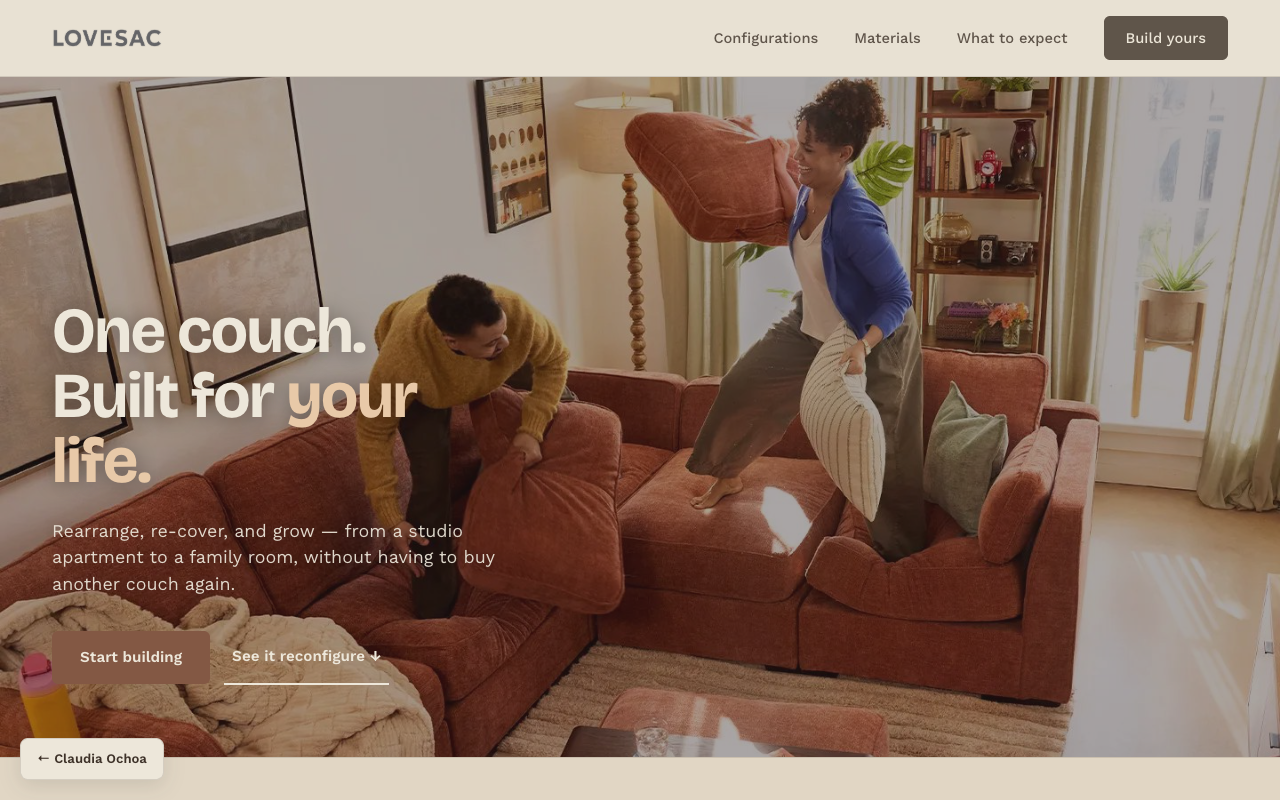
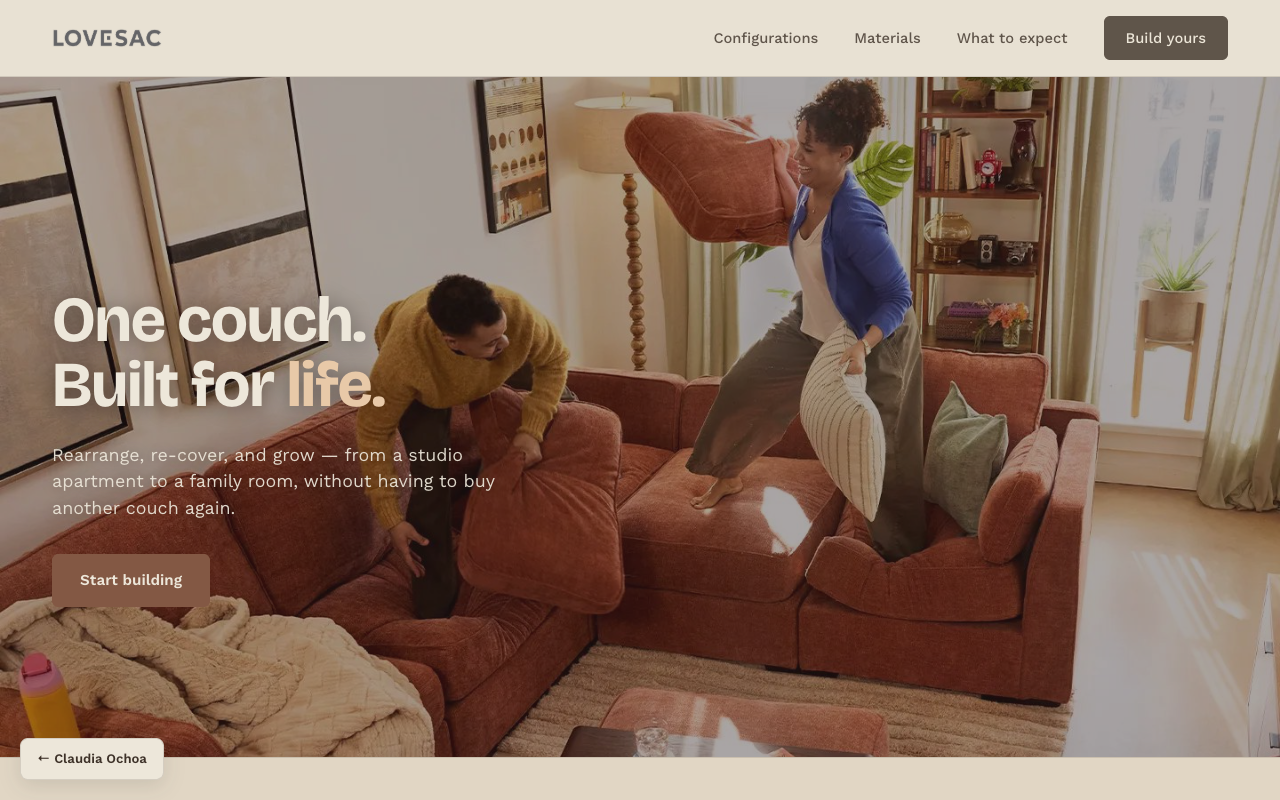
Raise hero copy, trim headline, drop secondary CTA
Bumps hero bottom padding 72px -> 150px to lift the copy block, shortens
the headline to "Built for life." (dropping "your", keeping the accent
color on "life."), and removes the "See it reconfigure" ghost link so
"Start building" stands alone. Regenerates the homepage thumbnail.

Claude-Session: https://claude.ai/code/session_01KPQmV889tNPqVaSHT3GnGD

Changed region(s): [[0.0312, 0.375, 0.375, 0.875]]

diff --git a/work/lovesac-redesign.html b/work/lovesac-redesign.html
@@ -100,7 +100,7 @@
     display:flex;
     align-items:flex-end;
     min-height:680px;
-    padding:0 0 72px;
+    padding:0 0 150px;
     background-image:url('../images/lovesac-hero.jpg');
     background-size:cover;
     background-position:center 42%;
@@ -293,11 +293,10 @@
 <header class="hero">
   <div class="wrap">
     <div class="hero-copy">
-      <h1>One couch.<br>Built for <em>your life.</em></h1>
+      <h1>One couch.<br>Built for <em>life.</em></h1>
       <p>Rearrange, re-cover, and grow — from a studio apartment to a family room, without having to buy another couch again.</p>
       <div class="btn-row">
         <a href="#" class="btn-primary">Start building</a>
-        <a href="#lives" class="btn-ghost">See it reconfigure ↓</a>
       </div>
     </div>
   </div>
